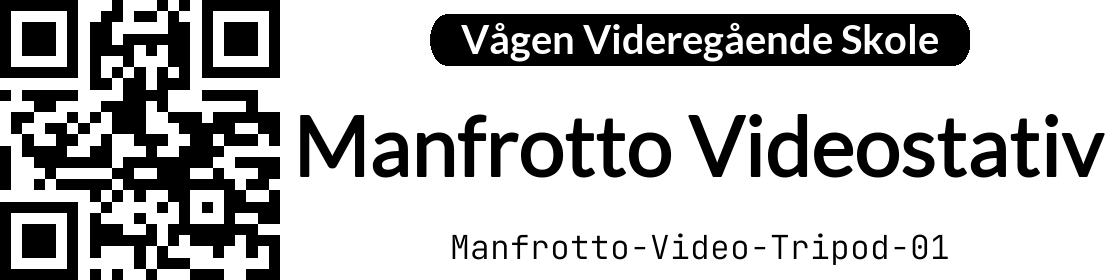
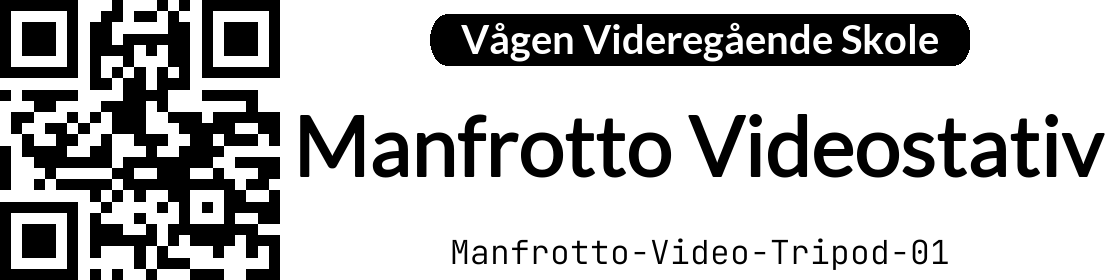
Larger font in barcode

Changed region(s): [[0.4062, 0.8286, 0.8438, 0.9429]]

diff --git a/src/LabelGenerator.py b/src/LabelGenerator.py
@@ -80,7 +80,7 @@ def _qr_label(content: InventoryItem) -> PIL.Image:
 
     # Draw the text
     draw_text(content.item_name, ly / 4 - 3, font_name, stroke_width=1)
-    draw_text(content.id, ly / 2 + 30, font_id)
+    draw_text(content.id, ly / 2 + 35, font_id)
 
     # Construct the label
     label = PIL.Image.new("RGB", (lx, ly), color="white")
@@ -113,19 +113,19 @@ def _barcode_label(content: InventoryItem) -> PIL.Image:
     # Add the logo to the top
     # Add the barcode in the center
     label.paste(image, (int((lx - image.width) / 2), int((ly - image.height) / 2) - 3))
-    label.paste(logo, (int((lx - logo.width - 75) / 2), 2))
+    label.paste(logo, (int((lx - logo.width - 100) / 2), 2))
     # Add the text below the barcode
-    font_id = ImageFont.truetype("JetBrainsMono-Light.ttf", size=int(ly/7.647))
+    font_id = ImageFont.truetype("JetBrainsMono-Light.ttf", size=int(ly/6.5))
 
     id_draw = PIL.ImageDraw.Draw(label)
     while (id_draw.textbbox((0, 0), content.id, font=font_id, align="left", anchor="mm")[2] * 2) > lx - padding:
         font_id = font_id.font_variant(size=font_id.size - 1)
     id_draw.text(
-        (lx / 2, ly - 34),
+        (lx / 2, ly - 38),
         content.id,
         font=font_id,
         fill="black",
-        align="left",
+        align="center",
         anchor="mm",
         stroke_width=0,
     )
